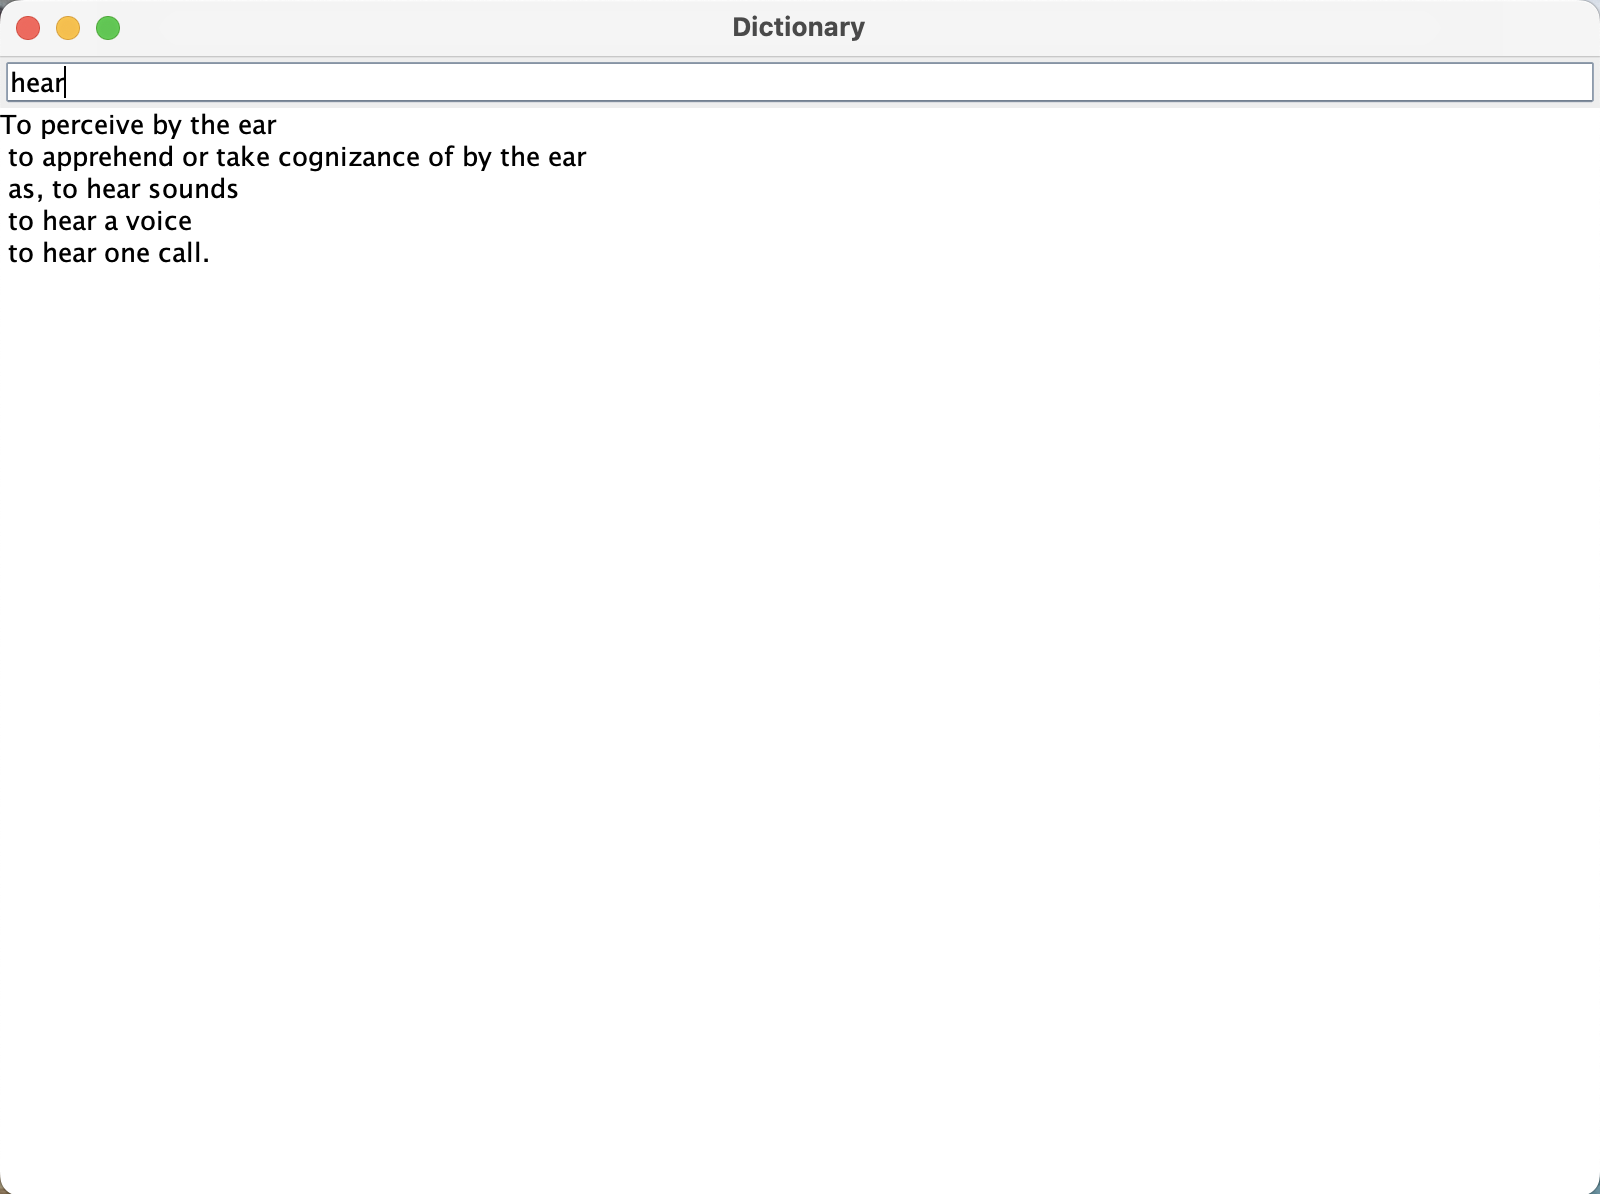
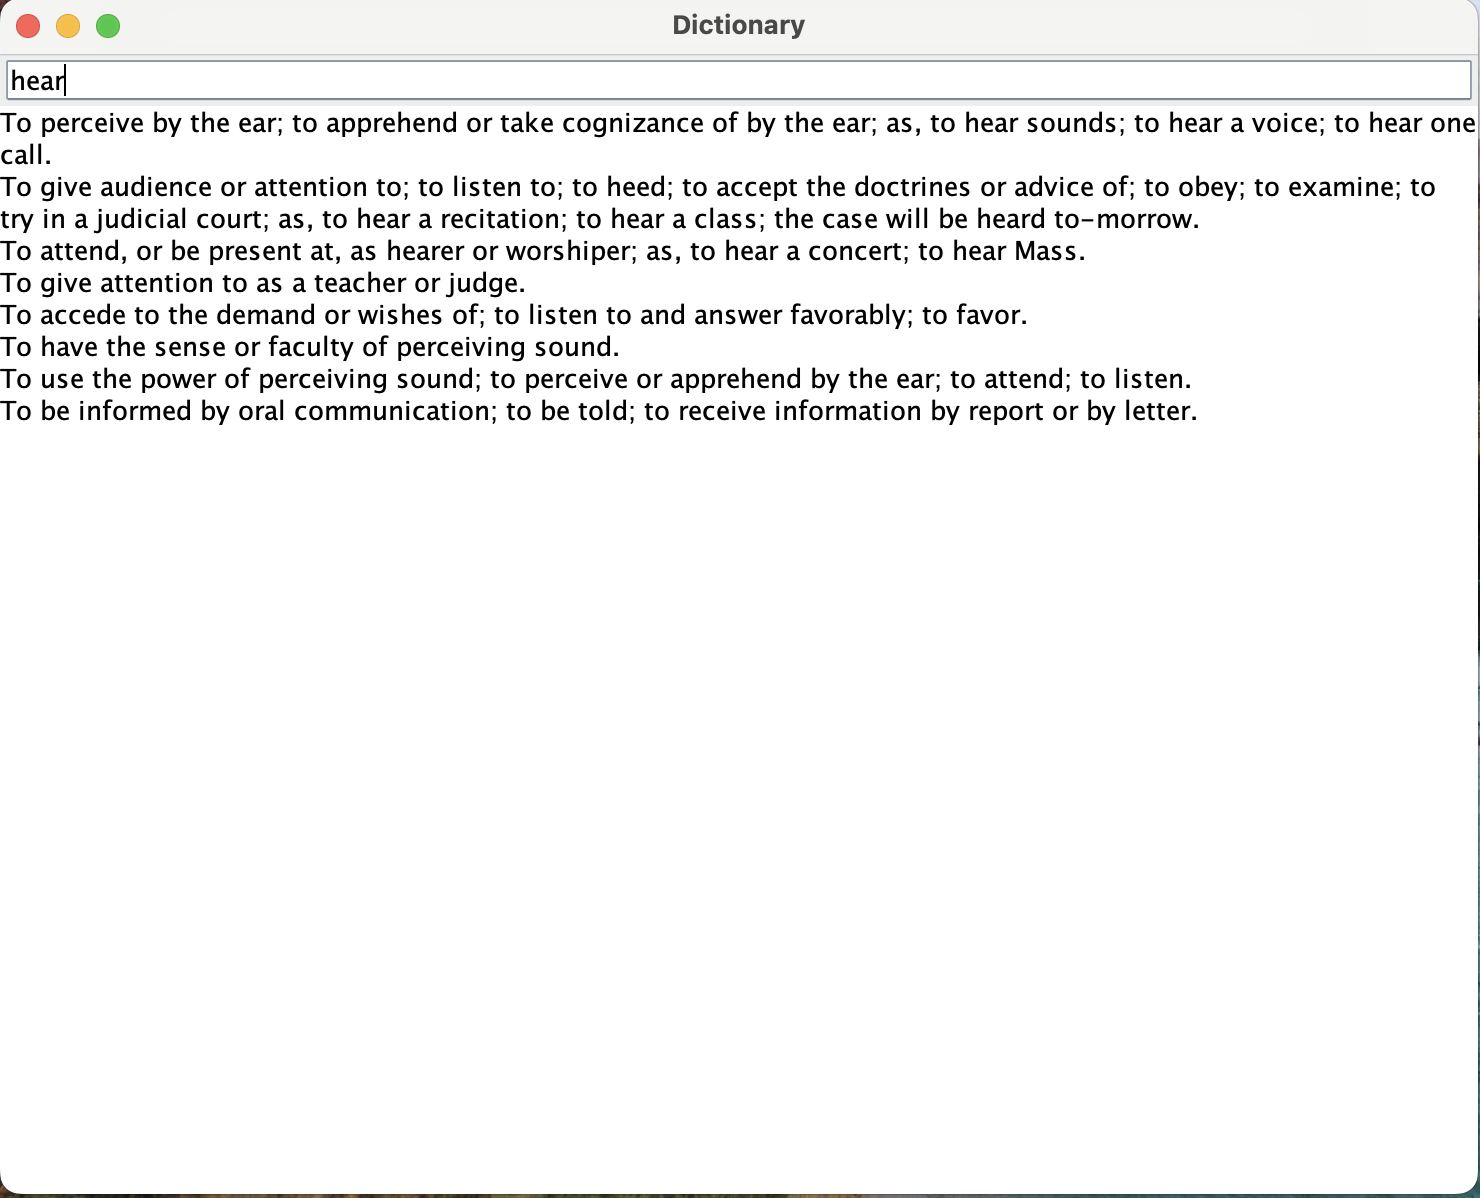
fixed comments

Changed region(s): [[0.0, 0.0, 1.0, 1.0], [0.8703, 0.1549, 0.9635, 0.1859]]

diff --git a/src/main/java/freiman/dictionary/EnglishDictionary.java b/src/main/java/freiman/dictionary/EnglishDictionary.java
@@ -17,12 +17,13 @@ public class EnglishDictionary {
 
     public EnglishDictionary() throws CsvValidationException, IOException {
 
+
         // Create an object of filereader class with CSV file as a parameter.
         InputStream in = EnglishDictionary.class.getResourceAsStream(
                 "/englishDictionary.csv");
         CSVReader reader = new CSVReader((new InputStreamReader(in)));
 
-        String[] nextRecord;
+        String[] nextRecord = null;
 
 
         // we are going to read data line by line
@@ -30,8 +31,9 @@ public class EnglishDictionary {
             dictionary.add(nextRecord);
         }
 
-    }
+        reader.close();
 
+    }
 
     /**
      * @param word to look up.
@@ -42,14 +44,14 @@ public class EnglishDictionary {
 
         for (String[] entry : dictionary) {
             if (word.equalsIgnoreCase(entry[0])) {
-                definition.addAll(Arrays.asList(entry[2].split(";")));
-                break;
+                definition.add(entry[2]);
             }
         }
-
         return definition;
     }
-
-
-
 }
+
+
+
+
+

diff --git a/src/test/java/freiman/dictionary/EnglishDictionaryTest.java b/src/test/java/freiman/dictionary/EnglishDictionaryTest.java
@@ -31,11 +31,10 @@ class EnglishDictionaryTest {
         EnglishDictionary dictionary = new EnglishDictionary();
 
         // when
-        List<String> definitions = dictionary.getDefinition("hub");
-
-        // then
-        List<String> expectedResult = Arrays.asList("The central part, usually cylindrical, of a wheel",
-                " the nave. See Illust. of Axle box.");
+        List<String> definitions = dictionary.getDefinition("film");
+        List<String> expectedResult = Arrays.asList("A thin skin; a pellicle; a membranous covering, causing opacity; "
+                        + "hence, any thin, slight covering.", "A slender thread, as that of a cobweb.",
+                        "To cover with a thin skin or pellicle.");
         assertEquals(expectedResult, definitions);
     }
 }

diff --git a/src/test/java/freiman/dictionary/DictionaryFrame.java b/src/test/java/freiman/dictionary/DictionaryFrame.java
@@ -73,5 +73,7 @@ public class DictionaryFrame extends JFrame {
         }
 
         defTextArea.setText(result.toString());
+
+
     }
 }
